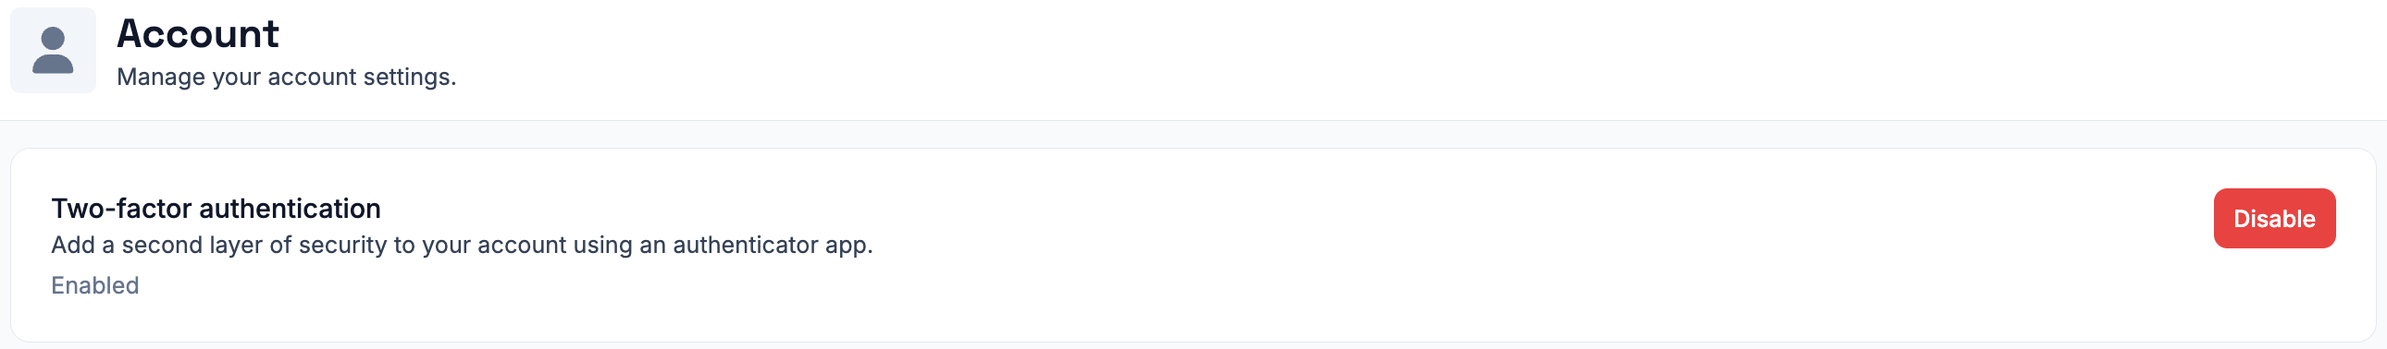
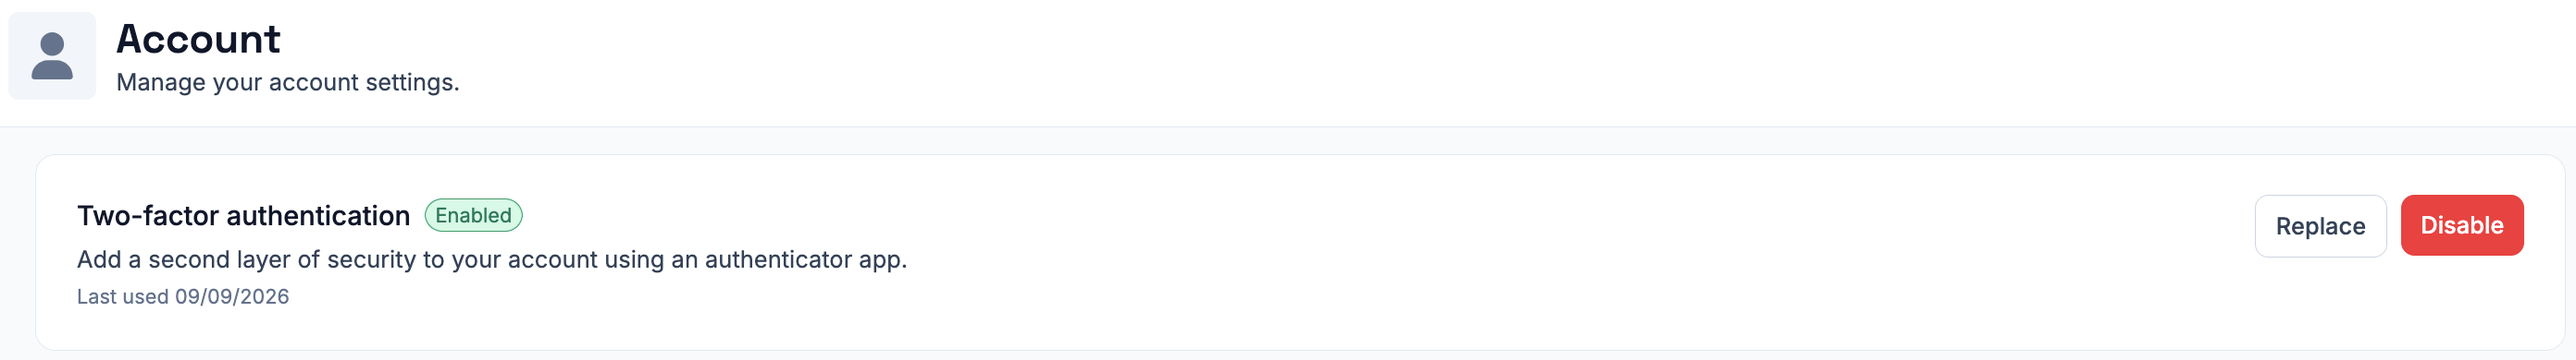
update 2fa docs - you can now directly replace your authenticator app - organizations can now enforce 2fa for its members

diff --git a/content/docs/control-plane/administration/two-factor-authentication.md b/content/docs/control-plane/administration/two-factor-authentication.md
@@ -24,11 +24,26 @@ key if you cannot scan the code.
 
 ![Two-factor authentication settings](../images/enabling-2fa.png)
 
-## Recovery codes
+Enter the code your authenticator application generates back into Plakar Control
+Plane. This confirms the authenticator is set up correctly, and two-factor
+authentication is only enabled once that code is accepted.
 
-After two-factor authentication is enabled, Plakar Control Plane generates a set
-of recovery codes. Store these in a secure location. Each code can be used once
-to sign in if you lose access to your authenticator application.
+Plakar Control Plane then generates a set of recovery codes. Store these in a
+secure location. Each code can be used once to sign in if you lose access to
+your authenticator application.
+
+## Required by the organization
+
+An organization can
+[require two-factor authentication](../settings/organization#two-factor-authentication)
+for all of its members. Members who do not have a second factor enrolled are
+required to set one up the next time they sign in. They must complete enrollment
+after entering their password and, when applicable, before completing a required
+password change, such as on their first sign-in after being invited.
+
+Members who already have a second factor enrolled are not affected and can
+continue signing in as usual. Access to Plakar Control Plane is granted only
+after a required second factor has been enrolled.
 
 ## Signing in
 
@@ -38,6 +53,17 @@ If the authenticator application is unavailable, you can sign in using one of
 your unused recovery codes instead.
 
 {{< figure src="../images/2fa-signin.png" alt="Two-factor authentication sign-in" class="mx-auto max-w-80" >}}
+
+## Replacing your authenticator app
+
+A second factor that is already enrolled can be replaced without disabling it
+first, this can be used moving to a new device or a different authenticator
+application. From the **Account** page, confirm the change with a valid
+verification code from the current authenticator application or one of your
+unused recovery codes, then enroll the new one exactly as described in
+[enabling two-factor authentication](#enabling-two-factor-authentication). The
+previous authenticator application and recovery codes will no longer work once
+the new one is enrolled.
 
 ## Disabling two-factor authentication
 

diff --git a/content/docs/control-plane/administration/settings/organization.md b/content/docs/control-plane/administration/settings/organization.md
@@ -32,7 +32,8 @@ same value in each organization and trusting it to stay.
 
 ## Authentication
 
-Controls how long credentials remain valid in this organization.
+Controls how members authenticate in this organization and how long their
+credentials remain valid.
 
 ### Token lifetimes
 
@@ -42,6 +43,15 @@ Two time-to-live (TTL) durations are configured together here:
   The badge indicates the current authentication status of a session.
 - **API key rotation TTL:** how long an API key remains valid after its owner
   rotates it.
+
+### Two-factor authentication
+
+Require the members of this organization to sign in with a second factor.
+Members who already hold one are unaffected. Members without one are taken
+through the setup the next time they sign in, and cannot reach Plakar Control
+Plane until a factor is enrolled. See
+[Two-factor authentication](../../two-factor-authentication) for what a member
+sets up and how it is used at sign-in.
 
 ## System
 

diff --git a/content/docs/control-plane/administration/signing-in.md b/content/docs/control-plane/administration/signing-in.md
@@ -63,3 +63,13 @@ set a new password before they can continue.
 If two-factor authentication is enabled on the account, a verification code is
 requested after the password. See
 [Two-factor authentication](../two-factor-authentication) for details.
+
+If the organization
+[requires two-factor authentication](../settings/organization#two-factor-authentication)
+for all of its members, members without an enrolled second factor must set one
+up the next time they sign in. They must complete enrollment before they can
+access Plakar Control Plane. If a password change is also required, such as
+during a user's first sign-in, the second-factor enrollment is completed before
+the password change.
+
+{{< figure src="../images/2fa-required.png" alt="" class="mx-auto max-w-100" >}}
